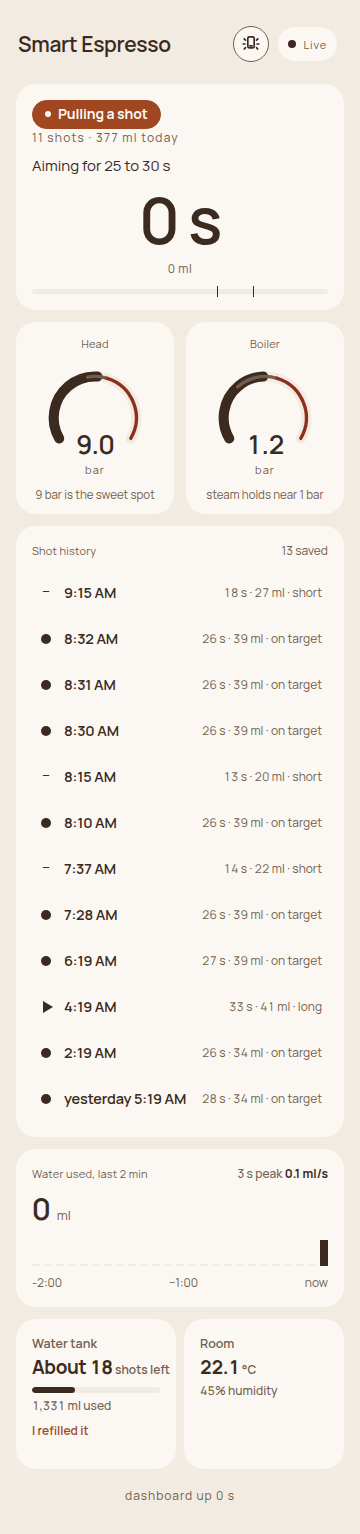
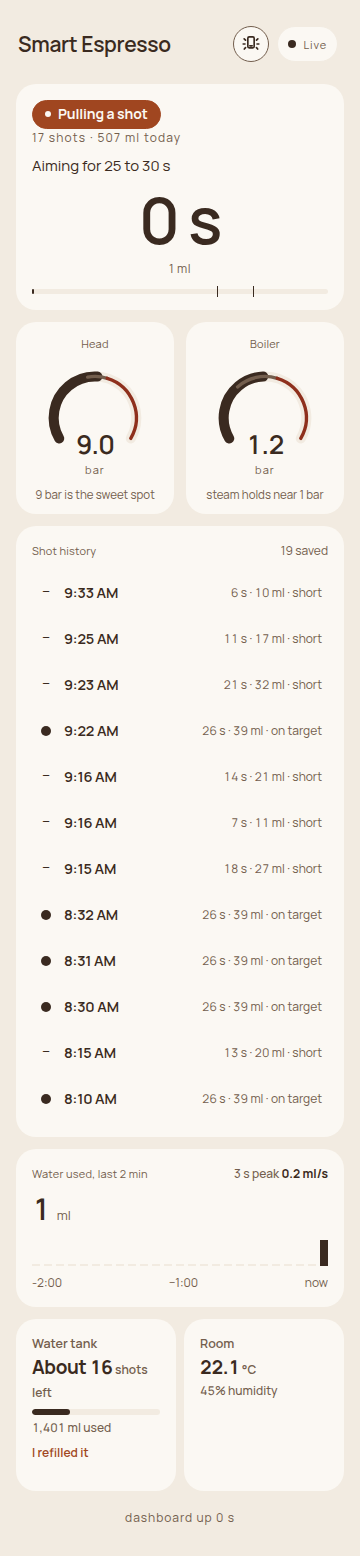
fix: let the tank lead wrap on a narrow phone
About 16 shots left no longer stays on one line past the meter.
Below 340 px the lead is 16 px. Shell cache is espresso-shell-v80.

diff --git a/smart_espresso/web/static/index.html b/smart_espresso/web/static/index.html
@@ -704,7 +704,7 @@
     letter-spacing: -.02em;
     line-height: 1.2;
     font-variant-numeric: tabular-nums;
-    white-space: nowrap;
+    min-width: 0;
   }
   .pair-lead small {
     font-size: 12px;
@@ -780,6 +780,9 @@
       justify-content: flex-start;
       text-align: left;
     }
+  }
+  @media (max-width: 339px) {
+    .pair-lead { font-size: 16px; }
   }
   @media (min-width: 1000px) {
     .pair-lead { font-size: 28px; }

diff --git a/smart_espresso/web/static/sw.js b/smart_espresso/web/static/sw.js
@@ -2,7 +2,7 @@
 // still opens (slightly stale, clearly marked so by the page itself) when
 // the machine's server hiccups. Sensor data is never cached: /api/* always
 // goes to the network.
-const CACHE = 'espresso-shell-v73';
+const CACHE = 'espresso-shell-v80';
 const SHELL = [
   '/',
   '/dashboard_logic.js',

diff --git a/smart_espresso/test/test_dashboard_logic.py b/smart_espresso/test/test_dashboard_logic.py
@@ -433,9 +433,13 @@ class TestRefillButton:
         assert 'id="tank-used-row"' in self.page
         assert "refill-inline" in self.page
         assert "refill-pill" in self.page
-        assert "font-variant-numeric: tabular-nums" in _css_rule(
-            self.page, ".pair-lead"
+        assert "min-width: 0" in _css_rule(self.page, ".pair-lead")
+        assert "white-space: nowrap" not in _css_rule(self.page, ".pair-lead")
+        narrow_lead = re.search(
+            r"@media \(max-width: 339px\)\s*\{([^}]*)\}", self.page
         )
+        assert narrow_lead is not None
+        assert "font-size: 16px" in narrow_lead.group(1)
         assert "font-variant-numeric: tabular-nums" in _css_rule(self.page, ".pair-sub")
         assert "repeat(2, minmax(0, 1fr))" in _css_rule(self.page, ".pair")
         assert "white-space: normal" in _css_rule(self.page, ".pair-lead.empty")

diff --git a/smart_espresso/test/test_dashboard_contrast.py b/smart_espresso/test/test_dashboard_contrast.py
@@ -158,7 +158,7 @@ class TestDashboardContrast:
         assert "fonts.googleapis.com" not in self.worker
         assert "fonts.gstatic.com" not in self.worker
         assert "/fonts/manrope.woff2" in self.worker
-        assert "espresso-shell-v73" in self.worker
+        assert "espresso-shell-v80" in self.worker
         font = PAGE.parent / "fonts" / "manrope.woff2"
         assert font.is_file()
         assert font.read_bytes()[:4] == b"wOF2"
